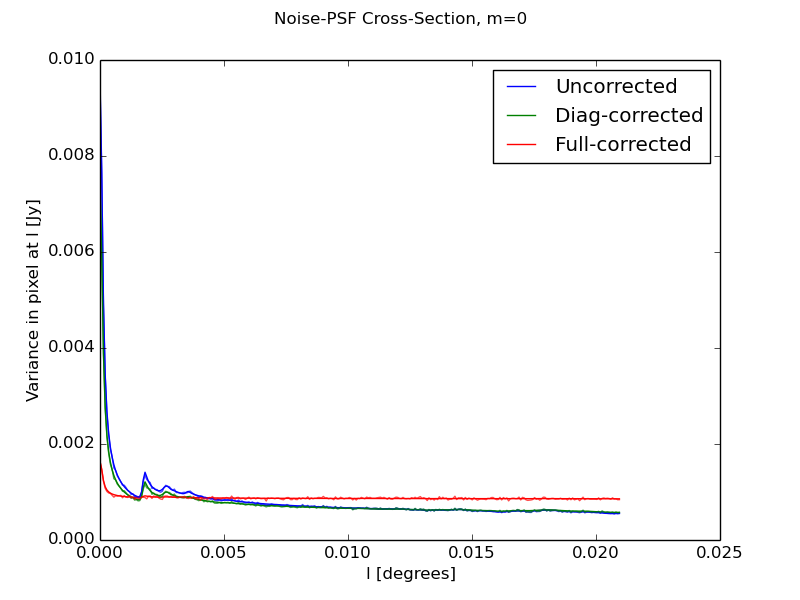
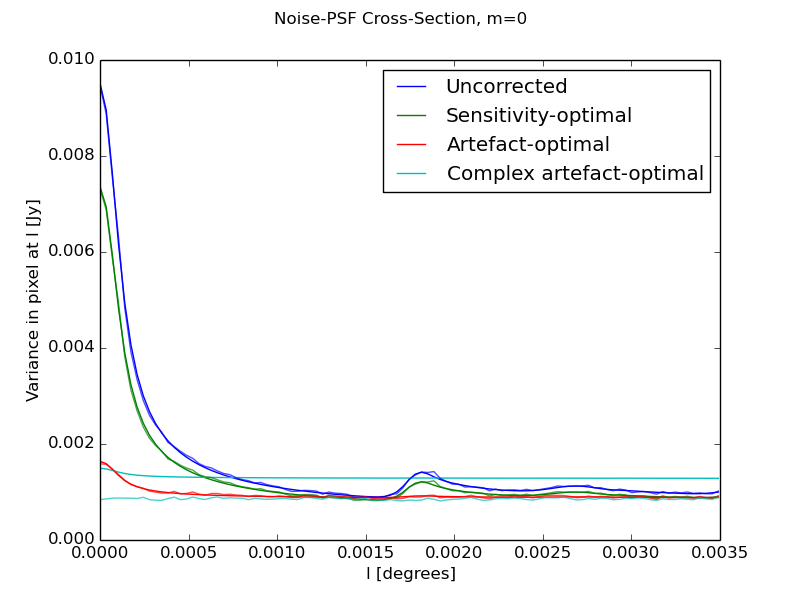
bleh

diff --git a/SimulateGains.py b/SimulateGains.py
@@ -122,7 +122,7 @@ class SimulGains:
         image=self.DFT(dudvdata,dus,dvs,DiamDeg=diamdeg,Npix=npix,loop=True)
         return np.copy(image),np.copy(nmatrix)
 
-    def NoisePsfCrossSection(self,PixSizeDeg=1.,Npix=101,loop=True):
+    def NoisePsfCrossSection(self,PixSizeDeg=.002,Npix=101,loop=True):
         # find UV tracks
         us,_,_=self.UV
         # find theoretical covmat
@@ -131,6 +131,7 @@ class SimulGains:
         # create corrected matrices
         diagcorrTheoCovMat=np.copy(TheoCovMat)
         fullcorrTheoCovMat=np.copy(TheoCovMat)
+        complexcorrTheoCovMat=np.copy(TheoCovMat)
         print "copy made"
         invCovMat=np.linalg.inv(TheoCovMat)
         print "invert matrix found"
@@ -138,23 +139,29 @@ class SimulGains:
         diagweights=(np.mean(np.diag(TheoCovMat))/np.diag(TheoCovMat))
 #        stop
         fullweights=np.abs(np.sum(invCovMat,axis=1))/np.abs(np.mean(np.sum(invCovMat,axis=1)))
+        complexweights=np.sum(invCovMat,axis=1)/np.abs(np.mean(np.sum(invCovMat,axis=1)))
         print "Matrices, weights initialised"
         for i in range(TheoCovMat.shape[0]):
             diagcorrTheoCovMat[i,:]=diagcorrTheoCovMat[i,:]*diagweights
             diagcorrTheoCovMat[:,i]=diagcorrTheoCovMat[:,i]*diagweights
             fullcorrTheoCovMat[i,:]=fullcorrTheoCovMat[i,:]*fullweights
             fullcorrTheoCovMat[:,i]=fullcorrTheoCovMat[:,i]*fullweights
+            complexcorrTheoCovMat[i,:]=fullcorrTheoCovMat[i,:]*complexweights
+            complexcorrTheoCovMat[:,i]=fullcorrTheoCovMat[:,i]*complexweights
         # initialise theofuncs
         theofunc=np.reshape(TheoCovMat.ravel(),(1,TheoCovMat.ravel().size,1))
         diagtheofunc=np.reshape(diagcorrTheoCovMat.ravel(),(1,TheoCovMat.ravel().size,1))
         fulltheofunc=np.reshape(fullcorrTheoCovMat.ravel(),(1,TheoCovMat.ravel().size,1))
+        complextheofunc=np.reshape(complexcorrTheoCovMat.ravel(),(1,TheoCovMat.ravel().size,1))
         # initialise simufuncs
         simufunc=np.reshape(np.copy(self.Gains),(self.Gains.shape[0],self.Gains.shape[1],1))
         diagsimufunc=np.copy(simufunc)
         fullsimufunc=np.copy(simufunc)
+        complexsimufunc=np.copy(simufunc)
         for i in range(simufunc.shape[1]):
             diagsimufunc[:,i,0]=simufunc[:,i,0]*diagweights[i]
             fullsimufunc[:,i,0]=simufunc[:,i,0]*fullweights[i]
+            complexsimufunc[:,i,0]=simufunc[:,i,0]*complexweights[i]
         pixsize=PixSizeDeg*np.pi/180
 
 #        diagsimufunc=diagsimufunc/np.mean(diagsimufunc)*np.mean(simufunc)
@@ -191,6 +198,9 @@ class SimulGains:
             nocorrSimuImStack=np.zeros((Npix),np.complex64)
             diagcorrSimuImStack=np.zeros((Npix),np.complex64)
             fullcorrSimuImStack=np.zeros((Npix),np.complex64)
+            complexcorrSimuImStack=np.zeros((Npix),np.complex64)
+            complexcorrTheoImStack=np.zeros((Npix),np.complex64)
+            
             print "begin iteration"
             # iterate over pixels
             for ipix in range(Npix):
@@ -198,18 +208,23 @@ class SimulGains:
                 nocorrTheoImStack[ipix]=np.mean(theofunc[0,:,0]*np.exp(2.*np.pi*1j*(dus[0,:,0]*l[0,0,ipix])))
                 diagcorrTheoImStack[ipix]=np.mean(diagtheofunc[0,:,0]*np.exp(2.*np.pi*1j*(dus[0,:,0]*l[0,0,ipix])))
                 fullcorrTheoImStack[ipix]=np.mean(fulltheofunc[0,:,0]*np.exp(2.*np.pi*1j*(dus[0,:,0]*l[0,0,ipix])))
+                complexcorrTheoImStack[ipix]=np.mean(complextheofunc[0,:,0]*np.exp(2.*np.pi*1j*(dus[0,:,0]*l[0,0,ipix])))
                 nocorrSimuImStack[ipix]=np.var(np.mean(simufunc[:,:,0]*np.exp(2.*np.pi*1j*(us[0,:,0]*l[0,0,ipix])),axis=1))
                 diagcorrSimuImStack[ipix]=np.var(np.mean(diagsimufunc[:,:,0]*np.exp(2.*np.pi*1j*(us[0,:,0]*l[0,0,ipix])),axis=1))
                 fullcorrSimuImStack[ipix]=np.var(np.mean(fullsimufunc[:,:,0]*np.exp(2.*np.pi*1j*(us[0,:,0]*l[0,0,ipix])),axis=1))
+                complexcorrSimuImStack[ipix]=np.var(np.mean(complexsimufunc[:,:,0]*np.exp(2.*np.pi*1j*(us[0,:,0]*l[0,0,ipix])),axis=1))
         # plot cross-sections
         pylab.clf()
         pylab.suptitle("Noise-PSF Cross-Section, m=0")
         pylab.plot(l[0,0,:],nocorrTheoImStack,label="Uncorrected",color="b")
-        pylab.plot(l[0,0,:],diagcorrTheoImStack,label="Diag-corrected",color="g")
-        pylab.plot(l[0,0,:],fullcorrTheoImStack,label="Full-corrected",color="r")
+        pylab.plot(l[0,0,:],diagcorrTheoImStack,label="Sensitivity-optimal",color="g")
+        pylab.plot(l[0,0,:],fullcorrTheoImStack,label="Artefact-optimal",color="r")
+        #pylab.plot(l[0,0,:],complexcorrTheoImStack,label="Complex artefact-optimal",color="c")
         pylab.plot(l[0,0,:],nocorrSimuImStack,alpha=0.7,color="b")
         pylab.plot(l[0,0,:],diagcorrSimuImStack,alpha=0.7,color="g")
         pylab.plot(l[0,0,:],fullcorrSimuImStack,alpha=0.7,color="r")
+        #pylab.plot(l[0,0,:],complexcorrSimuImStack,alpha=0.7,color="c")
+
         pylab.legend()
         pylab.ylabel("Variance in pixel at l [Jy]")
         pylab.xlabel("l [degrees]")
@@ -222,9 +237,10 @@ class SimulGains:
 
 
 
-def test(ctime1=0):
+def test(ctime1=800):
     pixels=11
-    inst=SimulGains(MSname="/data/tasse/BOOTES/BOOTES24_SB140-149.2ch8s.ms",sigma_sec=ctime1)
+#    inst=SimulGains(MSname="/data/tasse/BOOTES/BOOTES24_SB140-149.2ch8s.ms",sigma_sec=ctime1)
+    inst=SimulGains(MSname="/data/etienne.bonnassieux/VINCE//BOOTES24_SB140-149.2ch8s.ms",sigma_sec=ctime1)
     gg_corr=inst.Gains
     # make unweighted images
     imsize=0.4/60 # angular size of image

diff --git a/CovWeights.doesfullweightsSomehow.py b/CovWeights.doesfullweightsSomehow.py
@@ -21,7 +21,7 @@ class CovWeights:
     def FindWeights(self,tcorr=0):
         #if tcorr!=0:
         #    tcorr=tcorr*self.ntSol
-        ms=table(self.MSName)
+        ms=table(self.MSName,readonly=False)
         # open antennas
         ants=table(ms.getkeyword("ANTENNA"))
         # open antenna tables
@@ -34,11 +34,12 @@ class CovWeights:
         nbl=np.where(Times==Times[0])[0].size
         warnings.filterwarnings("ignore")
         # TODO: find better name
-        norm=1/ms.getcol("PREDICTED_VIS")
+        #norm=1/np.ones_like(ms.getcol("CORRECTED_DATA"))
         warnings.filterwarnings("default")
         # get rid of NaN
-        norm[np.isnan(norm)]=0
+        #norm[np.isnan(norm)]=0
         if "RESIDUAL_DATA" not in ms.colnames():
+            print "RESIDUAL_DATA not in MS: adding and filling with CORRECTED_DATA"
             desc=ms.getcoldesc("CORRECTED_DATA")
             desc["name"]="RESIDUAL_DATA"
             desc['comment']=desc['comment'].replace(" ","_")
@@ -47,8 +48,7 @@ class CovWeights:
         # bootes test; true flags are in different dir
         flags=ms.getcol("FLAG")
         #flags=np.load(self.MSName+"/Flagging.npy")
-        print "Please ensure that RESIDUAL_DATA or CORRECTED_DATA contains residual visibilities from complete skymodel subtraction, and PREDICTED_VIS contains the uncalibrated flux."
-        residualdata=(ms.getcol("RESIDUAL_DATA")*norm)
+        residualdata=(ms.getcol("RESIDUAL_DATA"))#*norm)
         flags=ms.getcol("FLAG")
         # apply flags to data
         residualdata[flags==1]=0
@@ -59,6 +59,7 @@ class CovWeights:
         nPola=residualdata.shape[2]
         nt=residualdata.shape[0]/nbl
         # reshape antennas and data columns
+        print residualdata.shape,nt,nbl,nChan,nPola
         residualdata=residualdata.reshape((nt,nbl,nChan,nPola))
         # average residual data within calibration cells
         if self.ntSol>1:
@@ -71,6 +72,7 @@ class CovWeights:
         ant1=np.arange(nAnt)
         # make rms array
         darray=ms.getcol("CORRECTED_DATA").reshape((nt,nbl,nChan,nPola))
+        darray=(ms.getcol("CORRECTED_DATA")-ms.getcol("MODEL_DATA")).reshape((nt,nbl,nChan,nPola))
         ms.close()
         rmsarray=np.zeros((nt,nbl,nChan,2),dtype=np.complex64)
         residuals=np.zeros_like(rmsarray,dtype=np.complex64)
@@ -109,7 +111,7 @@ class CovWeights:
                 print "%s column already present; will overwrite"%colname
             else:
                 W=np.ones((nt*nbl,nchan))
-                desc=ms.getcoldesc("IMAGING_WEIGHT")
+                desc=ms.getcoldesc("WEIGHT_SPECTRUM")
                 desc["name"]=colname
                 desc['comment']=desc['comment'].replace(" ","_")
                 ms.addcols(desc)
@@ -192,7 +194,7 @@ class CovWeights:
         np.save(coeffFilename,CoeffArray)
         return CoeffArray
                         
-    def SaveWeights(self,CoeffArray,colname="VAR_WEIGHT",AverageOverChannels=True,tcorr=0):
+    def SaveWeights(self,CoeffArray,colname="VAR_WEIGHT",AverageOverChannels=True,tcorr=0,PreserveResolution=True):
         print "Begin saving the data"
         ms=table(self.MSName,readonly=False)
         # open antennas
@@ -228,10 +230,16 @@ class CovWeights:
         warnings.filterwarnings("ignore")
         for i in range(nbl):
             for j in range(nchan):
-                w[:,i,j]=1./(CoeffArray[:,A0ind[i]] + CoeffArray[:,A1ind[i]] + 0.01)# + np.sqrt(CoeffArray[:,A0ind[i]]*CoeffArray[:,A1ind[i]]))
+                w[:,i,j]=1./(CoeffArray[:,A0ind[i]] + CoeffArray[:,A1ind[i]] + 0.01 + np.sqrt(CoeffArray[:,A0ind[i]]*CoeffArray[:,A1ind[i]]))
                 #w[:,i,j]=1./(CoeffArray[:,A0ind[i]]**2 + CoeffArray[:,A1ind[i]]**2 + 0.01)
             PrintProgress(i,nbl)
         warnings.filterwarnings("default")
+        w[np.isnan(w)]=0
+        w[np.isinf(w)]=0
+        if PreserveResolution==True:
+            for i in range(nbl):
+                w[:,i,:]=w[:,i,:]/np.mean(w[:,i,:])
+        w=w/np.mean(w)
         w=w.reshape(nt*nbl,nchan)
         #else:
         #    #concatenate coeffarray
@@ -248,13 +256,6 @@ class CovWeights:
         #            mat2=CoeffArray1[:,A1ind[i]].reshape((1,nt1))
         #            cmat=np.dot(mat1,mat2)
         #            stop
-
-        w[np.isnan(w)]=0
-        w[np.isinf(w)]=0
-        # normalise
-        print w
-        print np.mean(w)
-        w=w/np.mean(w)
         # save in weights column
         ms.putcol(colname,w)
         ants.close()

diff --git a/ClassSampleMachine.py b/ClassSampleMachine.py
@@ -21,7 +21,7 @@ class ClassSampleMachine():
     def sqrtSVD(self,A):
         u,s,v=np.linalg.svd(A)
         s[s<0.]=0.
-        ssq=np.sqrt(s)
+        ssq=np.sqrt(np.abs(s))
         v0=v.T*ssq.reshape(1,ssq.size)
         Asq=np.conj(np.dot(v0,u.T))
         return Asq
